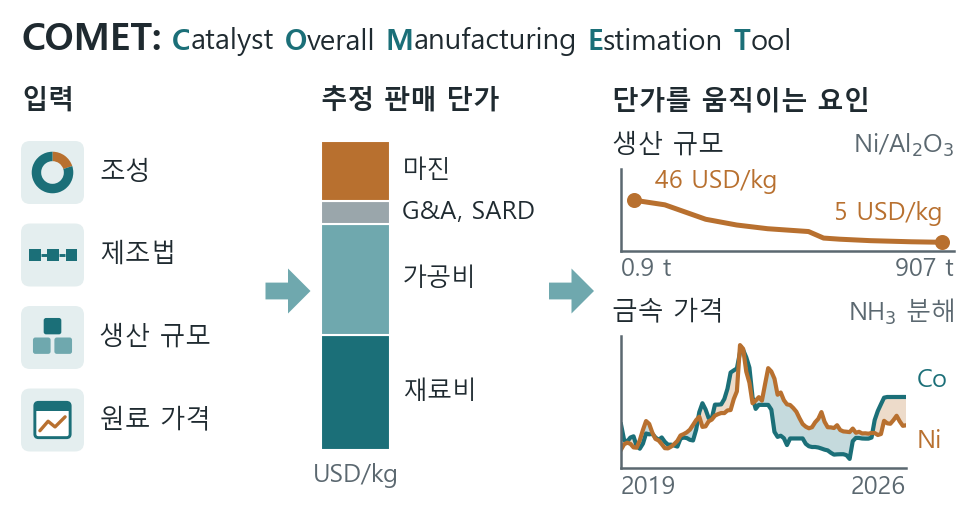
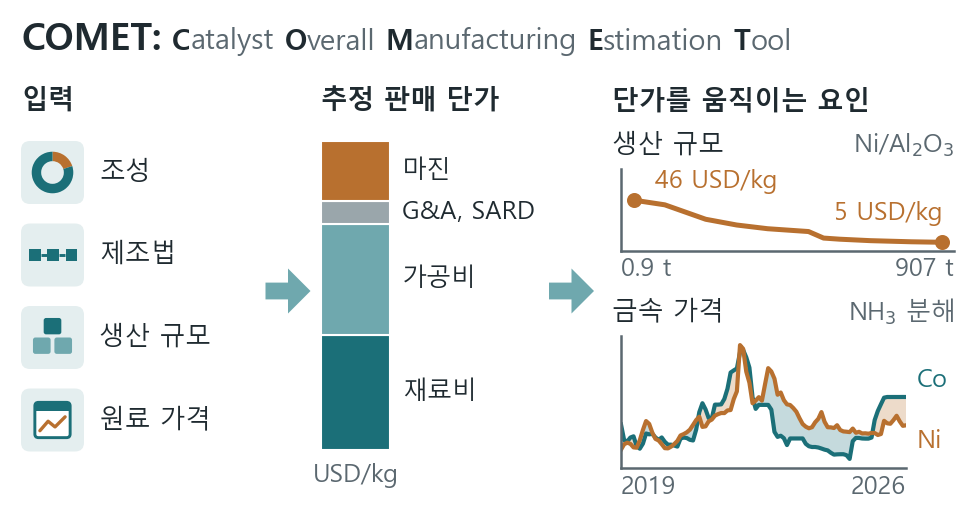
fix(paper): black initials and gray lowercase letters in the Table of Contents title
Audit entry H59 also records two previews that were compared and not adopted:
Ru/MgO on a broken axis in the ammonia-cracking chart, and Ru-, Co- and
Ni-based curves in the production-scale chart.

Changed region(s): [[0.1538, 0.061, 0.8308, 0.0914]]

diff --git a/scripts/draw_note_toc_graphic.py b/scripts/draw_note_toc_graphic.py
@@ -97,7 +97,7 @@ def graphic(lang):
     cursor = 0.07
     pieces = [("COMET:", 9.0, "bold", INK)]
     for word in NAME.split():
-        pieces += [(" ", 6.9, "normal", INK), (word[0], 6.9, "bold", ACC), (word[1:], 6.9, "normal", INK)]
+        pieces += [(" ", 6.9, "normal", INK), (word[0], 6.9, "bold", INK), (word[1:], 6.9, "normal", MUTED)]
     for string, size, weight, colour in pieces:
         if string == " ":
             cursor += 0.035
